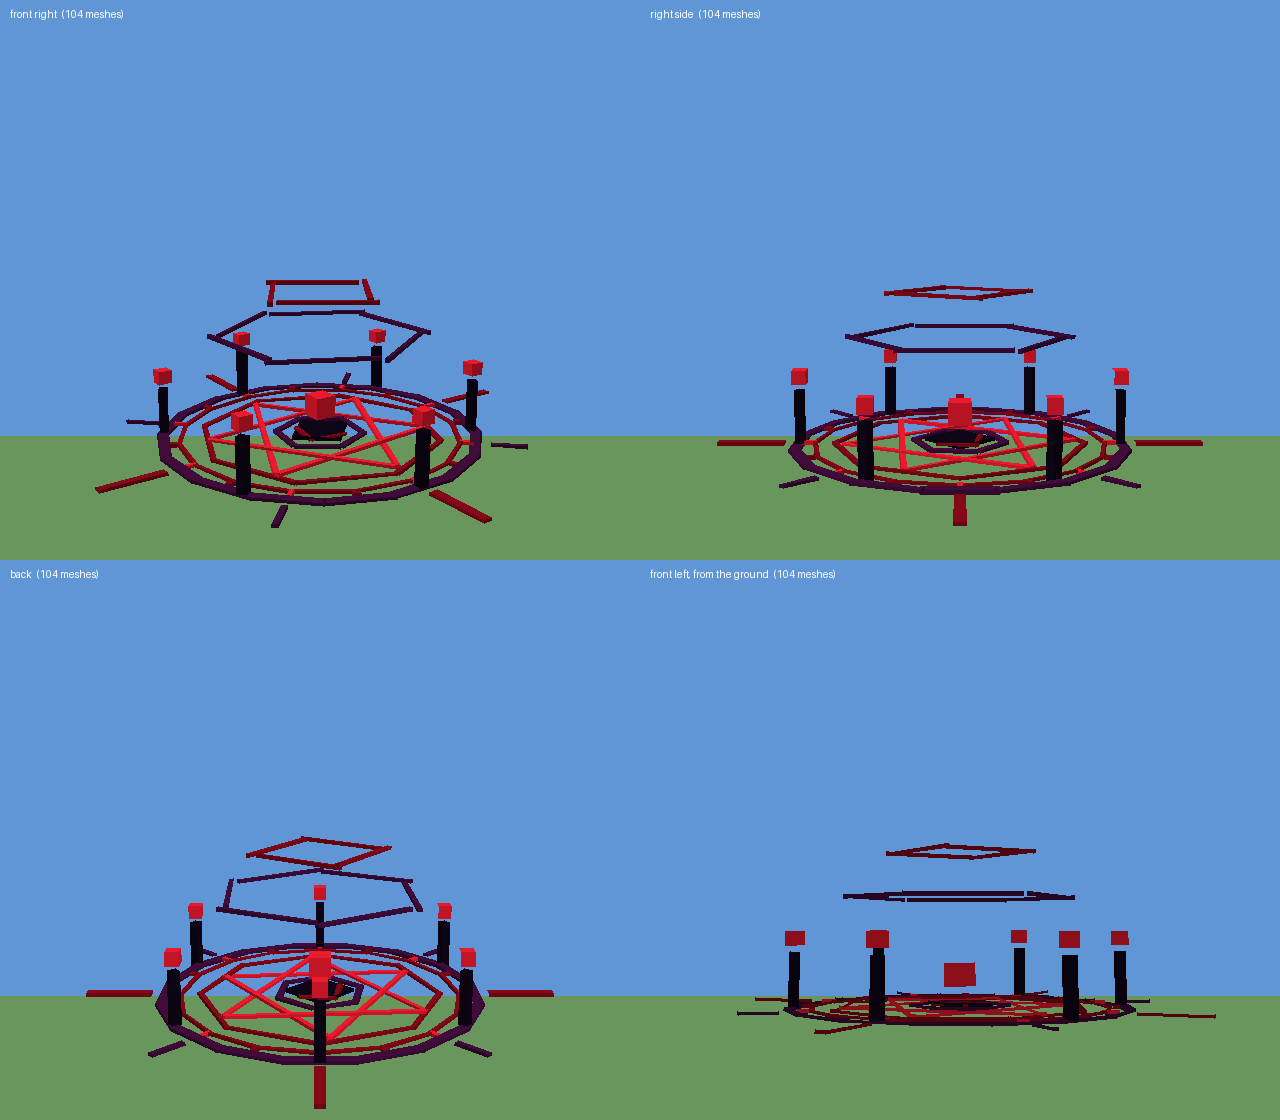
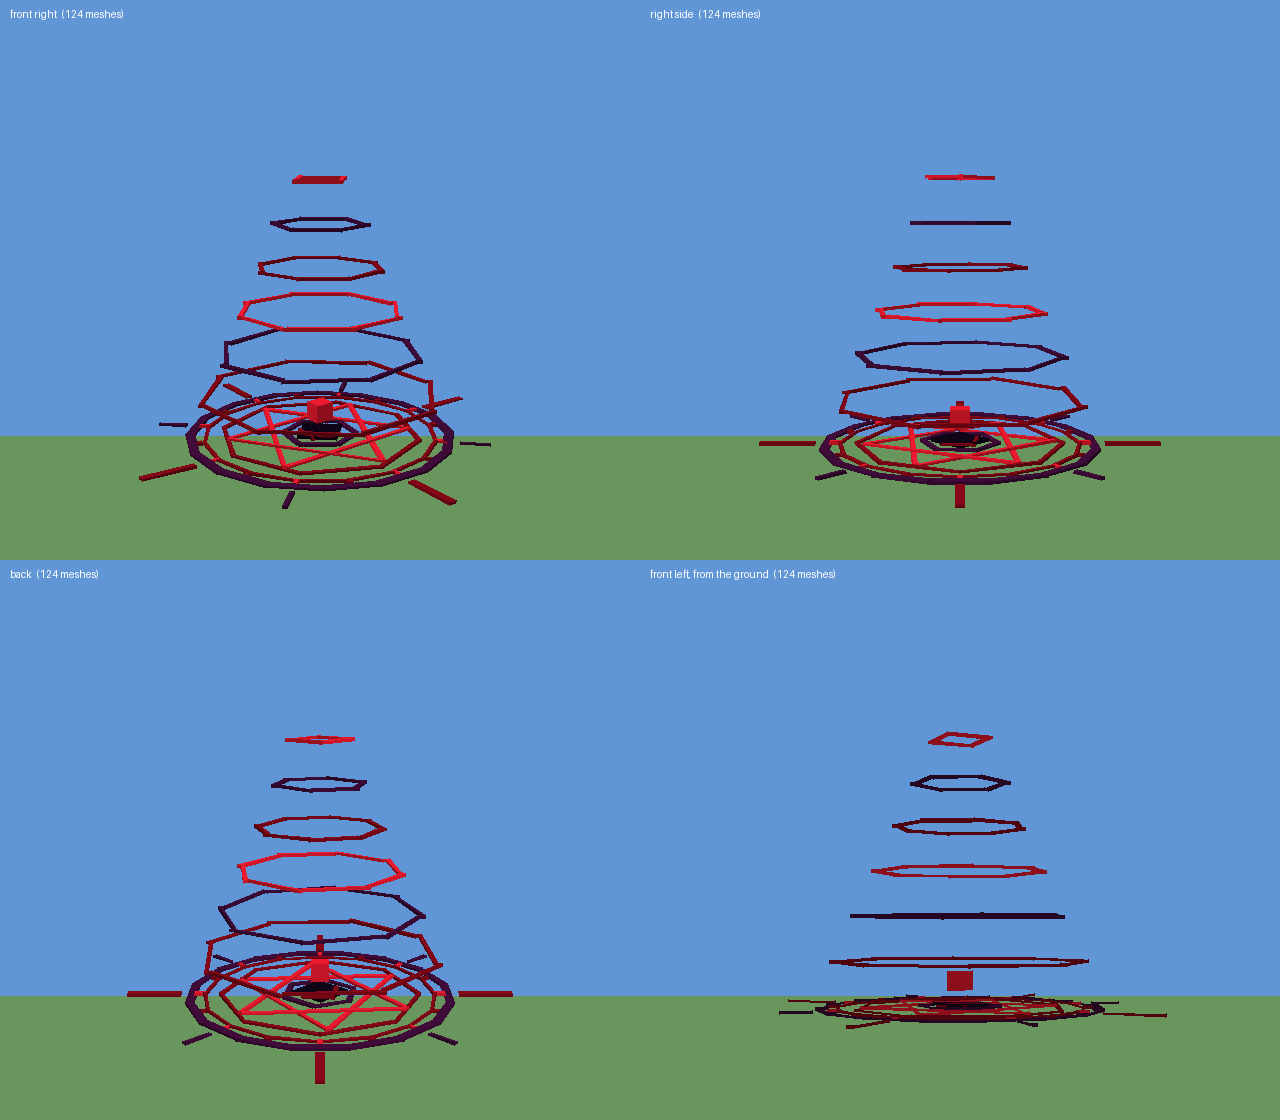
Ritual circle: pillars with cubes removed, replaced by a cone of six circles that appear above the main one

diff --git a/dragon_pulse/world_code.js b/dragon_pulse/world_code.js
@@ -60,10 +60,12 @@ var DP_CIRCLE = [
   [4, 0.42, 0.84, 0.1, 0.06, "blood", 0, 0.06, 24, 0.12],
   [4, 4.7, 1.5, 0.2, 0.06, "blood", 0, 0, 27, 0, "r"],
   [4, 4.35, 0.8, 0.12, 0.06, "wine", 45, 0, 29, 0, "r"],
-  [6, 3.6, 0.2, 0.2, 1.2, "void", 30, 0.6, 32, 0, "k"],
-  [6, 3.6, 0.3, 0.3, 0.3, "crimson", 30, 1.5, 35, 0, "spink"],
-  [6, 2.1, 2.42, 0.1, 0.08, "wine", 0, 2.4, 38, -0.1],
-  [4, 1.1, 2.2, 0.1, 0.08, "blood", 0, 3.4, 41, 0.14],
+  [8, 3.1, 2.57, 0.1, 0.08, "blood", 0, 1.2, 31, 0.05, "k"],
+  [8, 2.6, 2.15, 0.1, 0.08, "wine", 22.5, 2.4, 33, -0.06, "k"],
+  [8, 2.1, 1.74, 0.1, 0.08, "crimson", 0, 3.6, 35, 0.07],
+  [8, 1.6, 1.33, 0.1, 0.08, "blood", 22.5, 4.8, 37, -0.08],
+  [6, 1.1, 1.27, 0.1, 0.08, "wine", 0, 6, 39, 0.09],
+  [4, 0.6, 1.2, 0.1, 0.08, "crimson", 0, 7.2, 41, -0.1],
   [1, 0, 0.5, 0.5, 0.5, "crimson", 0, 0.7, 44, 0, "spink"],
   [1, 0, 1.1, 1.1, 0.08, "void", 0, 0.08, 44, 0.2, "k"],
 ]

diff --git a/README.md b/README.md
@@ -133,9 +133,9 @@ The meshes sit over your own skin; they do not hide it.
 
 | File | Goes into | Characters | Limit |
 |---|---|---|---|
-| `world_code.js` | World Code | 39,217 | 512,000 |
-| `goodra.js` | World Code, below `world_code.js` | 10,215 | 512,000 together: 49,433 |
-| `skin.js` | World Code | 6,032 | 512,000, all three together: 55,466 |
+| `world_code.js` | World Code | 39,341 | 512,000 |
+| `goodra.js` | World Code, below `world_code.js` | 10,215 | 512,000 together: 49,557 |
+| `skin.js` | World Code | 6,032 | 512,000, all three together: 55,590 |
 | `code_block.js` | Code Block | 18 | 32,000 |
 | `studio/particles_only.code_block.js` | Code Block | 13,414 | 32,000 |
 
@@ -146,7 +146,7 @@ the table columns mean is written on this page instead.
 
 | Step | What happens | Built from | Seconds |
 |---|---|---|---|
-| circle | The summoning circle draws itself ring by ring; the star in it turns | 104 meshes in 17 rings: a smooth 16-sided outer band with a thin inner band, dashes and dots between them like runes, an octagon, a turning six-pointed star whose points touch it, a hexagon and a square turning the other way, eight spikes outside, six pillars on the band with a turning cube floating over each, two halos above turning against each other, and a core over a turning plate; rising sparks | 0.0–2.5 |
+| circle | The summoning circle draws itself ring by ring; the star in it turns. Then six more circles appear above it, one after another going up, each smaller than the one below and turning the other way | 124 meshes in 19 rings: a smooth 16-sided outer band with a thin inner band, dashes and dots between them like runes, an octagon, a turning six-pointed star whose points touch it, a hexagon and a square turning the other way, eight spikes outside, a core over a turning plate, and a 7-block-tall cone of six circles above; rising sparks | 0.0–2.5 |
 | emerge | A pillar of light, then the dragon comes up through the floor and spirals 16 blocks up | 143 meshes: a 55-part head, a 58-part body that follows the head's path, five cloud orbs beside it (20 meshes) and a trail of 10 pieces behind the tail that get thinner and darker; particles that fade out mark where it flew | 2.5–3.15 |
 | seek | It circles at the top, then picks its target; a ring flashes on the target | the same dragon | 3.15–3.75 |
 | dive | It weaves down onto the target | the same dragon, shimmer particles | 3.75–4.7 |
@@ -244,10 +244,10 @@ The summoning circle is in `DP_CIRCLE`. One row is one ring of equal boxes:
 *Drawn outside the game with plain light so the parts can be told apart. In the
 game they glow.*
 
-The move stays under 400 meshes. One cast holds at most 173 meshes at once (circle and dragon together, while it
-comes out); two dragons about to merge hold up to 333. To fit, the
-circle is cut down to 36 meshes (outer band, star, pillars and core: the rings
-with flag `k`) at the moment the dragon starts to come out. `maxMeshes` is 399, and the
+The move stays under 400 meshes. One cast holds at most 177 meshes at once (circle and dragon together, while it
+comes out); two dragons about to merge hold up to 341. To fit, the
+circle is cut down to 40 meshes (outer band, star, core and the two lowest of
+the circles above: the rings with flag `k`) at the moment the dragon starts to come out. `maxMeshes` is 399, and the
 meshes of a standing Goodra count toward it, so the code never asks for a 400th. All are deleted when the move ends.
 
 ## Node meshes (an experiment, off by default)
@@ -258,9 +258,9 @@ group becomes one mesh entity that carries the rest:
 
 | | Mesh entities | With node meshes |
 |---|---|---|
-| Summoning circle | 104 | 7 (one per turning speed) carrying 104 node meshes |
+| Summoning circle | 124 | 9 (one per turning speed) carrying 124 node meshes |
 | Dragon head | 55 | 1 carrying 55 |
-| One cast at most | 173 | 95 |
+| One cast at most | 177 | 95 |
 
 The body, orbs and trail bend along the flight path piece by piece, so they stay
 mesh entities. With node meshes on, the whole circle stays while the dragon comes
@@ -386,10 +386,10 @@ list.
 
 `DP_COL` holds every colour as red, green, blue from 0 to 255.
 
-- **The ritual** uses only the dark ones: `void` (black) for the pillars and the
-  plate, `wine` (dark purple-red) for the outer band and one halo, `blood` (dark
-  red) for most rings, and `crimson` (bright red) for the star, the cubes over
-  the pillars and the core. Its particles are red too (`DP_RITE`).
+- **The ritual** uses only the dark ones: `void` (black) for the plate, `wine`
+  (dark purple-red) for the outer band, `blood` (dark red) for most rings, and
+  `crimson` (bright red) for the star and the core. The circles above take those
+  three in turn. Its particles are red too (`DP_RITE`).
 - **The dragon** is dark purple (`deep`) and near-black (`night`) with black
   horns (`void`), magenta spines, crest and wings, bright violet (`volt`) belly
   plates, and red (`crimson`) eyes, whiskers and stripes. Its cloud orbs are dark
@@ -449,9 +449,9 @@ It cannot show how the game draws it. Things to look at first in your world:
 - **Mesh limit.** The game limits mesh entities but does not publish the number.
   If parts of the dragon are missing, lower `detail`.
 - **Many casts at once.** There is no cooldown. Up to `maxCasts` (4) casts run
-  together and share `maxMeshes` (399). Two dragons need 333; a third at the same time is cut
+  together and share `maxMeshes` (399). Two dragons need 341; a third at the same time is cut
   short.
-- **Speed.** At full detail one dragon makes up to 290 api calls per tick, two
+- **Speed.** At full detail one dragon makes up to 330 api calls per tick, two
   up to 540. If the game stutters or stops the script, lower `detail`.
 - **Killing.** The target is killed with `api.killLifeform`. If the game refuses
   that call, the code takes 99,999 health instead.
